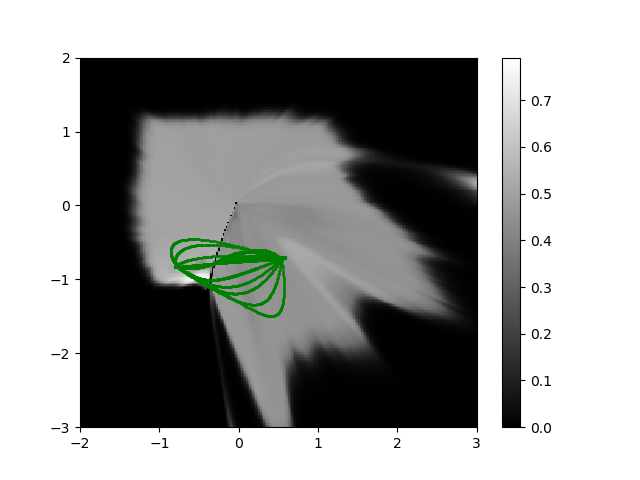
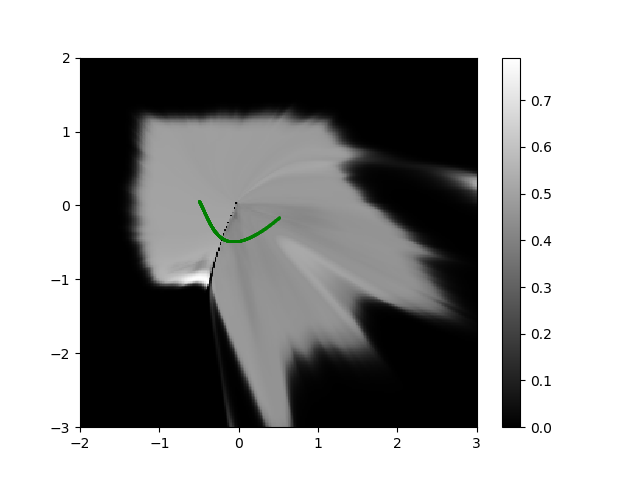
Ted stuff

Changed region(s): [[0.25, 0.4062, 0.4688, 0.6875]]

diff --git a/GAN/swiss_roll/compute_geodesics.py b/GAN/swiss_roll/compute_geodesics.py
@@ -3,32 +3,58 @@ from GAN.swiss_roll.geodesic_graph import *
 
 def set_up_training(objective_Jacobian, objective_proposed):
 
-    train_Jacobian = tf.train.AdamOptimizer(
-        learning_rate=learning_rate_geodesics,
-        beta1=0.5,
-        beta2=0.9
-    ).minimize(
-        objective_Jacobian,
-        var_list=coefficients
-    )
+    
 
-    train_proposed = tf.train.AdamOptimizer(
-        learning_rate=learning_rate_geodesics,
-        beta1=0.5,
-        beta2=0.9
-    ).minimize(
-        objective_proposed,
-        var_list=coefficients
-    )
+    train_Jacobian = tf.train.GradientDescentOptimizer(
+        learning_rate=learning_rate_geodesics
+        ).minimize(objective_Jacobian,var_list=coefficients)
+
+    train_proposed = tf.train.GradientDescentOptimizer(
+        learning_rate=learning_rate_geodesics
+        ).minimize(objective_proposed,var_list=coefficients)
+
+
+    # train_Jacobian = tf.train.AdamOptimizer(
+    #     learning_rate=learning_rate_geodesics,
+    #     beta1=adam_beta1,
+    #     beta2=adam_beta2
+    # ).minimize(
+    #     objective_Jacobian,
+    #     var_list=coefficients
+    # )
+
+    # train_proposed = tf.train.AdamOptimizer(
+    #     learning_rate=learning_rate_geodesics,
+    #     beta1=adam_beta1,
+    #     beta2=adam_beta2
+    # ).minimize(
+    #     objective_proposed,
+    #     var_list=coefficients
+    # )
 
 
     return train_Jacobian, train_proposed
 
 
 
-def find_geodesics(method, start, end, sess, training):
+def find_geodesics(method, start, end, sess, training,train_writer):
 
-    if method == "Jacobian" or  method=="proposed":
+    if method=="proposed":
+
+        for iteraton in range(n_train_iterations_geodesics):
+            if False:
+                merge = tf.summary.merge_all()
+                summary,_ = sess.run([merge,training], feed_dict={z_start : start, z_end: end})
+                train_writer.add_summary(summary, iteraton)
+            else:
+                _ = sess.run([training], feed_dict={z_start : start, z_end: end})
+                
+
+        _curves_in_latent_space_value, _curves_in_sample_space_value = sess.run(
+            [curves_in_latent_space, curves_in_sample_space],
+            feed_dict={z_start: start, z_end: end})
+
+    elif method == "Jacobian":
 
         for iteraton in range(n_train_iterations_geodesics):
             _ = sess.run([training], feed_dict={z_start : start, z_end: end})
@@ -41,9 +67,7 @@ def find_geodesics(method, start, end, sess, training):
     elif method == "linear":
         _curves_in_latent_space_value, _curves_in_sample_space_value = sess.run(
             [lines_in_latent_space, lines_in_sample_space], feed_dict={z_start: start, z_end: end})
-
-   
-
+    
     else:
         raise Exception("method {} unknown".format(method))
 
@@ -110,19 +134,19 @@ def compute_geodesics(latent_start, latent_end):
 
 
             if method == "Jacobian":
-
-                curves_in_latent_space_value, curves_in_sample_space_value = find_geodesics(method, latent_start, latent_end, session, train_geodesic_Jacobian)
+                curves_in_latent_space_value, curves_in_sample_space_value = find_geodesics(method, latent_start, latent_end, session, train_geodesic_Jacobian,None)
 
             elif method == "proposed":
-
+                train_writer  =  tf.summary.FileWriter( './graphs',session.graph)
                 curves_in_latent_space_value, curves_in_sample_space_value = find_geodesics(method, latent_start, latent_end,
-                                                                                            session, train_geodesic_proposed)
+                                                                                            session, train_geodesic_proposed,train_writer)
 
+                
             elif method == "linear":
                 curves_in_latent_space_value, curves_in_sample_space_value = find_geodesics(method, latent_start,
                                                                                             latent_end,
                                                                                             session,
-                                                                                            None)
+                                                                                            None,None)
 
 
 

diff --git a/GAN/swiss_roll/geodesic_graph.py b/GAN/swiss_roll/geodesic_graph.py
@@ -31,7 +31,7 @@ def parametrize_line(z_start, z_end, n_geodesic_interpolations):
     interpolation_matrix_entries = np.zeros(shape=(n_geodesic_interpolations + 1, 2))
     for i in range(n_geodesic_interpolations + 1):
         for j in range(2):
-            interpolation_matrix_entries[i, j] = (float(i) / n_geodesic_interpolations) ** j
+            interpolation_matrix_entries[i, j] = (float(i) / (n_geodesic_interpolations +1 ) ) ** j
     interpolation_matrix = tf.constant(interpolation_matrix_entries,
                                        shape=(n_geodesic_interpolations + 1, 2),
                                        dtype='float32')
@@ -63,9 +63,9 @@ def parametrize_curve(z_start, z_end, interpolation_degree, n_geodesic_interpola
         interpolation_matrix_entries = np.zeros(shape=(n_geodesic_interpolations + 1, interpolation_degree + 1))
         for i in range(n_geodesic_interpolations + 1):
             for j in range(interpolation_degree + 1):
-                interpolation_matrix_entries[i, j] = (float(i) / n_geodesic_interpolations) ** j
+                interpolation_matrix_entries[i, j] = (float(i) / (n_geodesic_interpolations + 1)) ** j
         interpolation_matrix = tf.constant(interpolation_matrix_entries,
-                                           shape=(n_geodesic_interpolations + 1, interpolation_degree + 1),
+                                            shape=(n_geodesic_interpolations + 1, interpolation_degree + 1),
                                            dtype='float32')
 
         geodesic_points_in_z_matrix = tf.matmul(
@@ -105,10 +105,15 @@ lines_in_sample_space = tf.transpose(tf.reshape(lines_in_sample_space_vectorized
 
 diff_square_vector = tf.reduce_sum(tf.square(curves_in_sample_space[1:, :, :] - curves_in_sample_space[:-1, :, :]), axis=1)
 
-denominator = tf.clip_by_value(disc_values_curves_sample_space[1:,:], 1e-5,1.)
+denominator = tf.clip_by_value(disc_values_curves_sample_space[1:,:], 1e-1,1.)
+#denominator = tf.multiply(denominator,denominator)
 
-objective_vector_proposed = tf.divide(diff_square_vector, denominator)
+#objective_vector_proposed = tf.divide(1, denominator)
+objective_vector_proposed = tf.divide(diff_square_vector,denominator)
 objective_vector_Jacobian = diff_square_vector
+
+#if method == "proposed"
+
 
 if penalty == True:
     geodesic_penalty = tf.reduce_max(diff_square_vector)  # maximum of norm difference in sample space
@@ -119,3 +124,8 @@ else:
 
 geodesic_objective_function_proposed = tf.reduce_sum(objective_vector_proposed) + penalty_hyper_param * geodesic_penalty
 geodesic_objective_function_Jacobian = tf.reduce_sum(objective_vector_Jacobian) + penalty_hyper_param * geodesic_penalty
+
+tf.summary.scalar("geodesic_objective_function_proposed",geodesic_objective_function_proposed)
+
+
+

diff --git a/GAN/swiss_roll/compare_geodesics.py b/GAN/swiss_roll/compare_geodesics.py
@@ -27,14 +27,16 @@ def initialize_endpoints_of_curve(initialization_mode):
             raise Exception("Please select {} such that it evenly divides {}").format(n_endpoint_clusters,n_geodesics)
         n_repeats = n_geodesics/n_endpoint_clusters
 
-        z_start_center = np.repeat(np.reshape(np.array([-0.75,-0.75]),(1,dim_latent,1)),\
-                                    n_endpoint_clusters,axis=2)
-        z_end_center = np.repeat(np.reshape(np.array([0.5,-0.75]),(1,dim_latent,1)),\
-                                    n_endpoint_clusters,axis=2)
+        # z_start_center = [-0.75,-0.75]
+        # z_end_center = [0.5,-0.75]
 
         sigma = 0.05
-        z_start_clusters = z_start_center + np.random.normal(0,sigma,(1,dim_latent,n_endpoint_clusters)).astype('float32')
-        z_end_clusters = z_end_center + np.random.normal(0,sigma,(1,dim_latent,n_endpoint_clusters)).astype('float32')
+        z_start_clusters = np.repeat(np.reshape(np.array(z_start_center),(1,dim_latent,1)),\
+                                    n_endpoint_clusters,axis=2) + \
+                            np.random.normal(0,sigma,(1,dim_latent,n_endpoint_clusters)).astype('float32')
+        z_end_clusters = np.repeat(np.reshape(np.array(z_end_center),(1,dim_latent,1)),\
+                                    n_endpoint_clusters,axis=2) + \
+                            np.random.normal(0,sigma,(1,dim_latent,n_endpoint_clusters)).astype('float32')
 
         z_start_value = np.repeat(z_start_clusters,n_repeats,axis=2)
         z_end_value = np.repeat(z_end_clusters,n_repeats,axis=2)

diff --git a/GAN/swiss_roll/config_geodesics.py b/GAN/swiss_roll/config_geodesics.py
@@ -1,12 +1,15 @@
-methods = ["Jacobian", "proposed", "linear"]
+methods = ["linear","Jacobian","proposed"]
 
-learning_rate_geodesics = 1e-3
-
-n_geodesics = 16
-n_interpolations_points_geodesic = 128 #128 # or 1024??
-degree_polynomial_geodesic_latent = 4
+learning_rate_geodesics = 1e-2
+adam_beta1 = 0.9
+adam_beta2 = 0.99
 
 n_train_iterations_geodesics = 2000
+
+n_geodesics = 1
+n_interpolations_points_geodesic = 512 #128 # or 1024??
+degree_polynomial_geodesic_latent = 4
+
 
 n_discriminator_grid_sample = 128
 sample_grid_minima = [-3.,-3.]
@@ -17,11 +20,16 @@ latent_grid_minima = [-2.,-3.]
 latent_grid_maxima = [3.,2.]
 
 endpoint_initialization_mode ="custom"
+# z_start_center = [-0.75,-0.75]
+# z_end_center = [0.5,-0.75]
+z_start_center = [-0.5,0]
+z_end_center = [0.5,-.2]
 #endpoint_initialization_mode ="horizontal_grid"
 n_endpoint_clusters = 1
+z_start_center
 
-sampling_geodesic_coefficients = "uniform"
-#sampling_geodesic_coefficients = "zeros"
+#sampling_geodesic_coefficients = "uniform"
+sampling_geodesic_coefficients = "zeros"
 
 
 penalty = False
